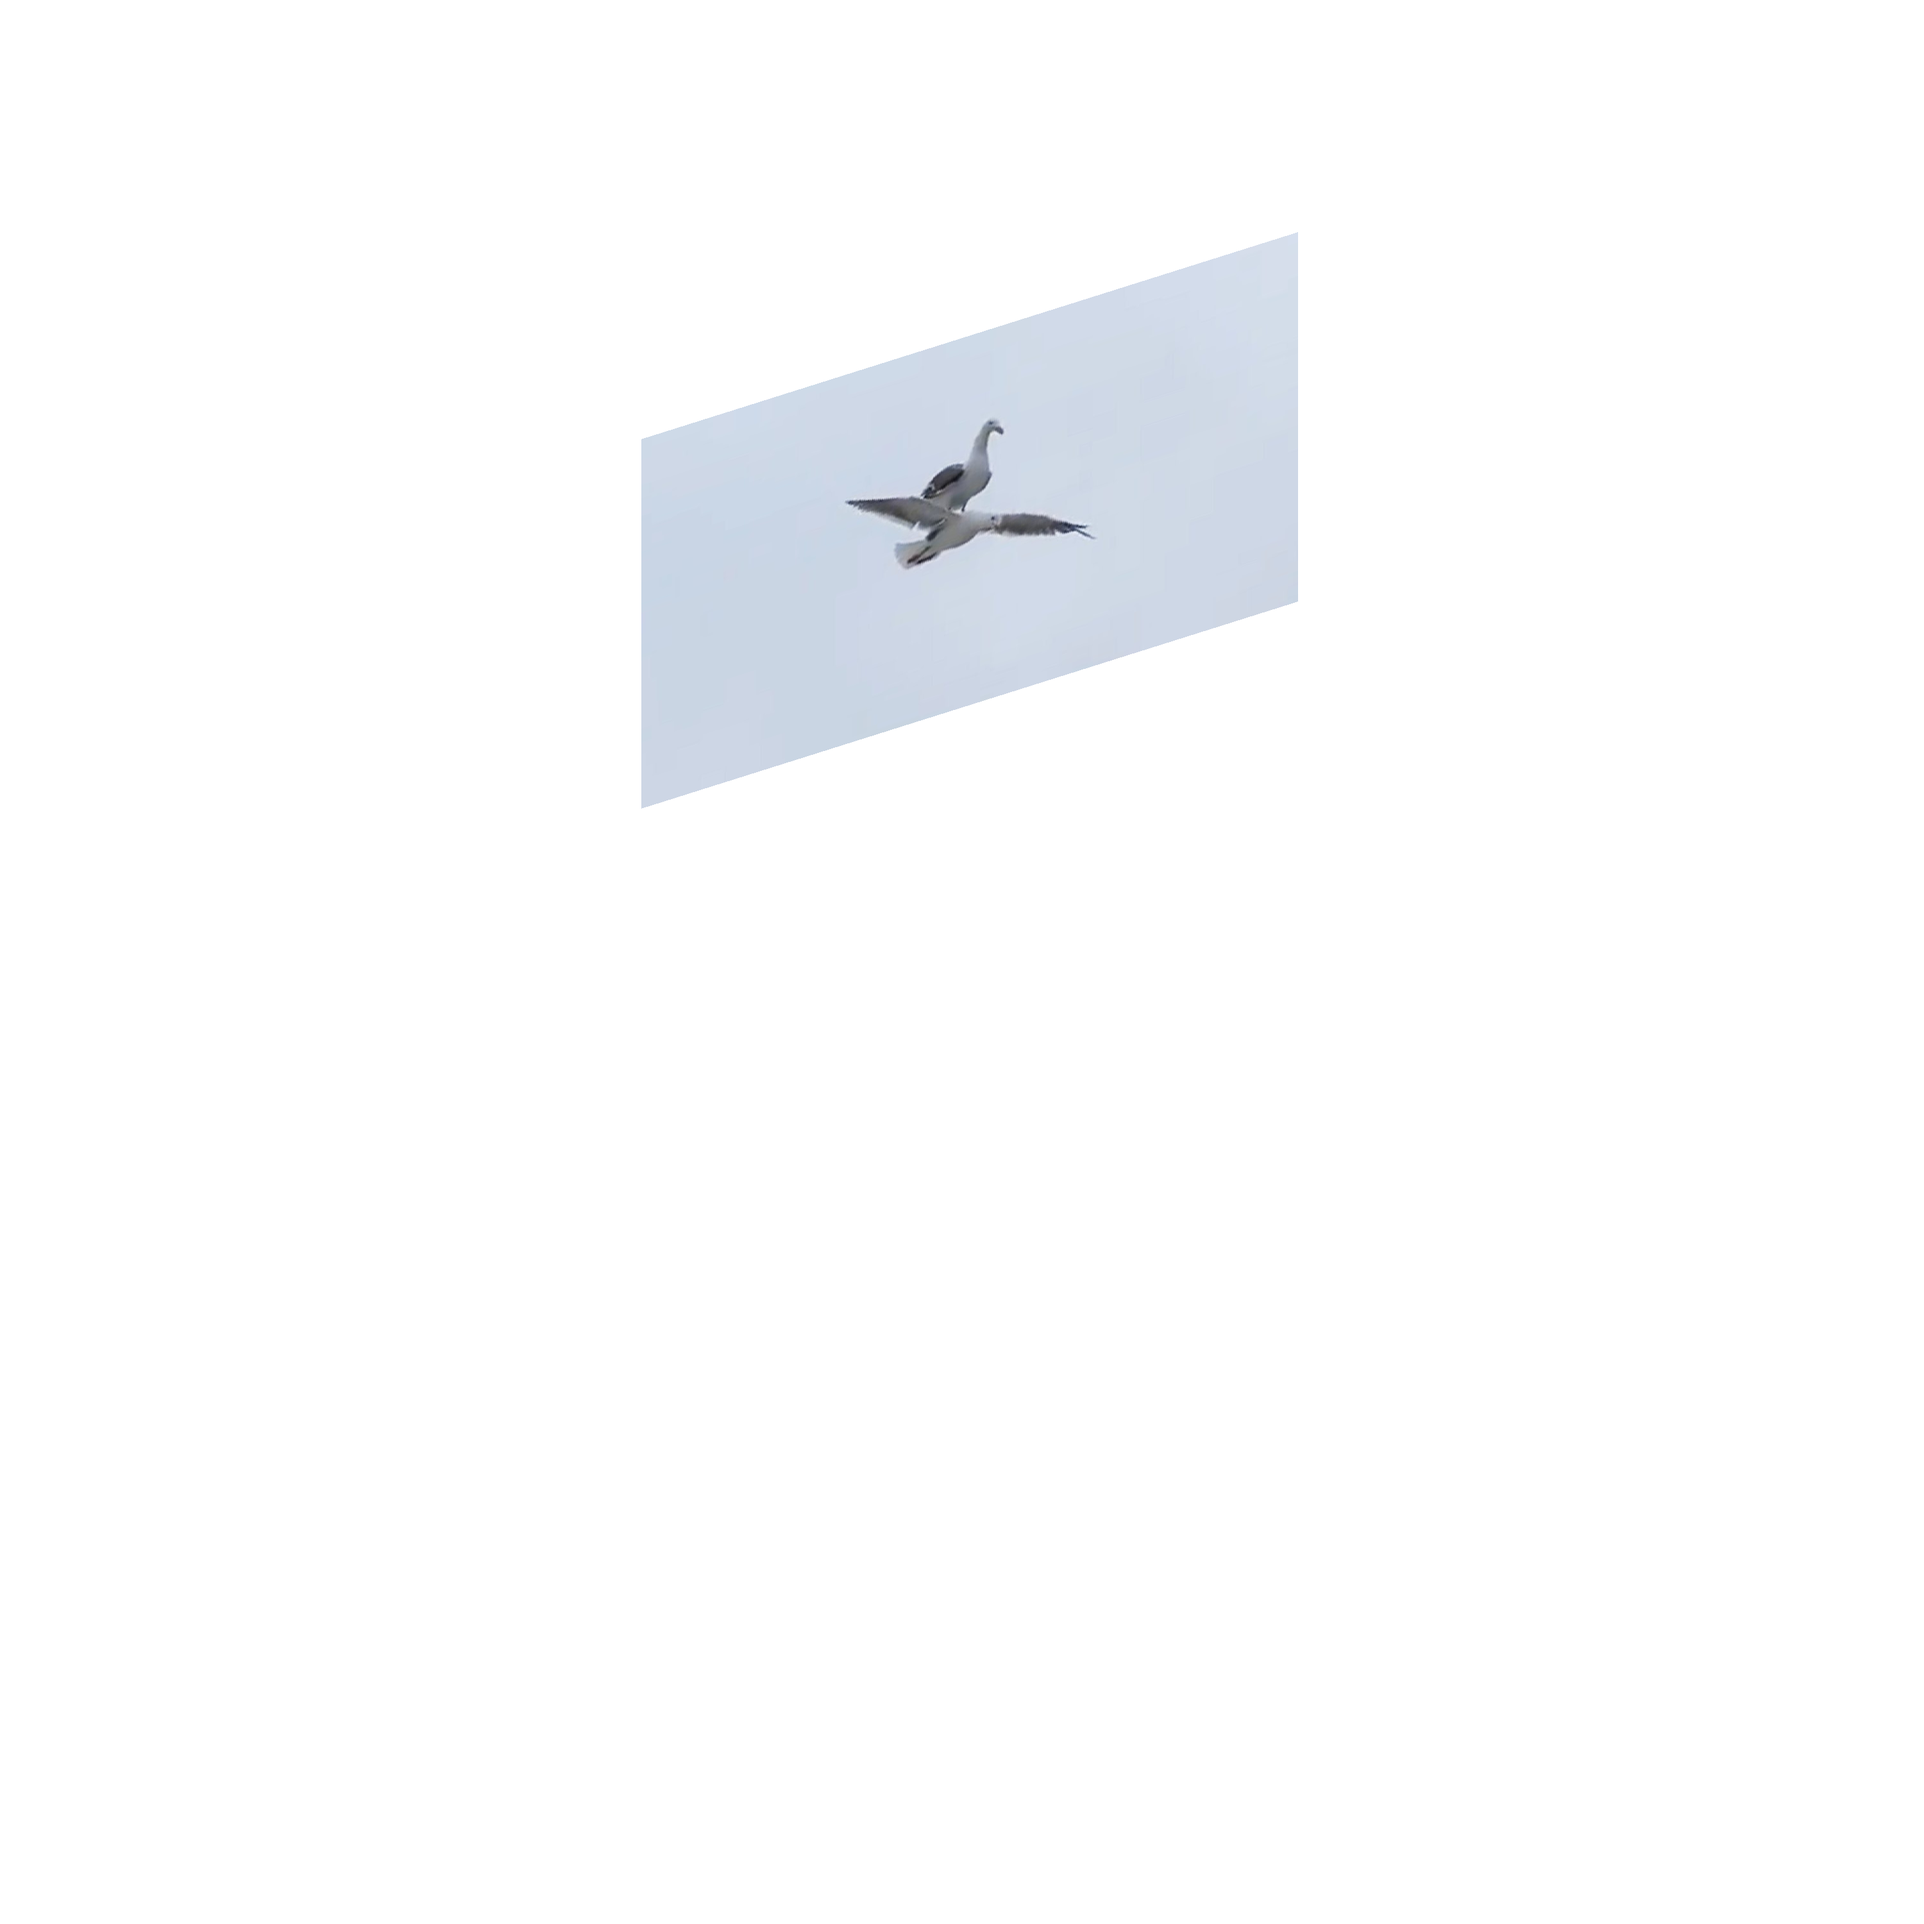
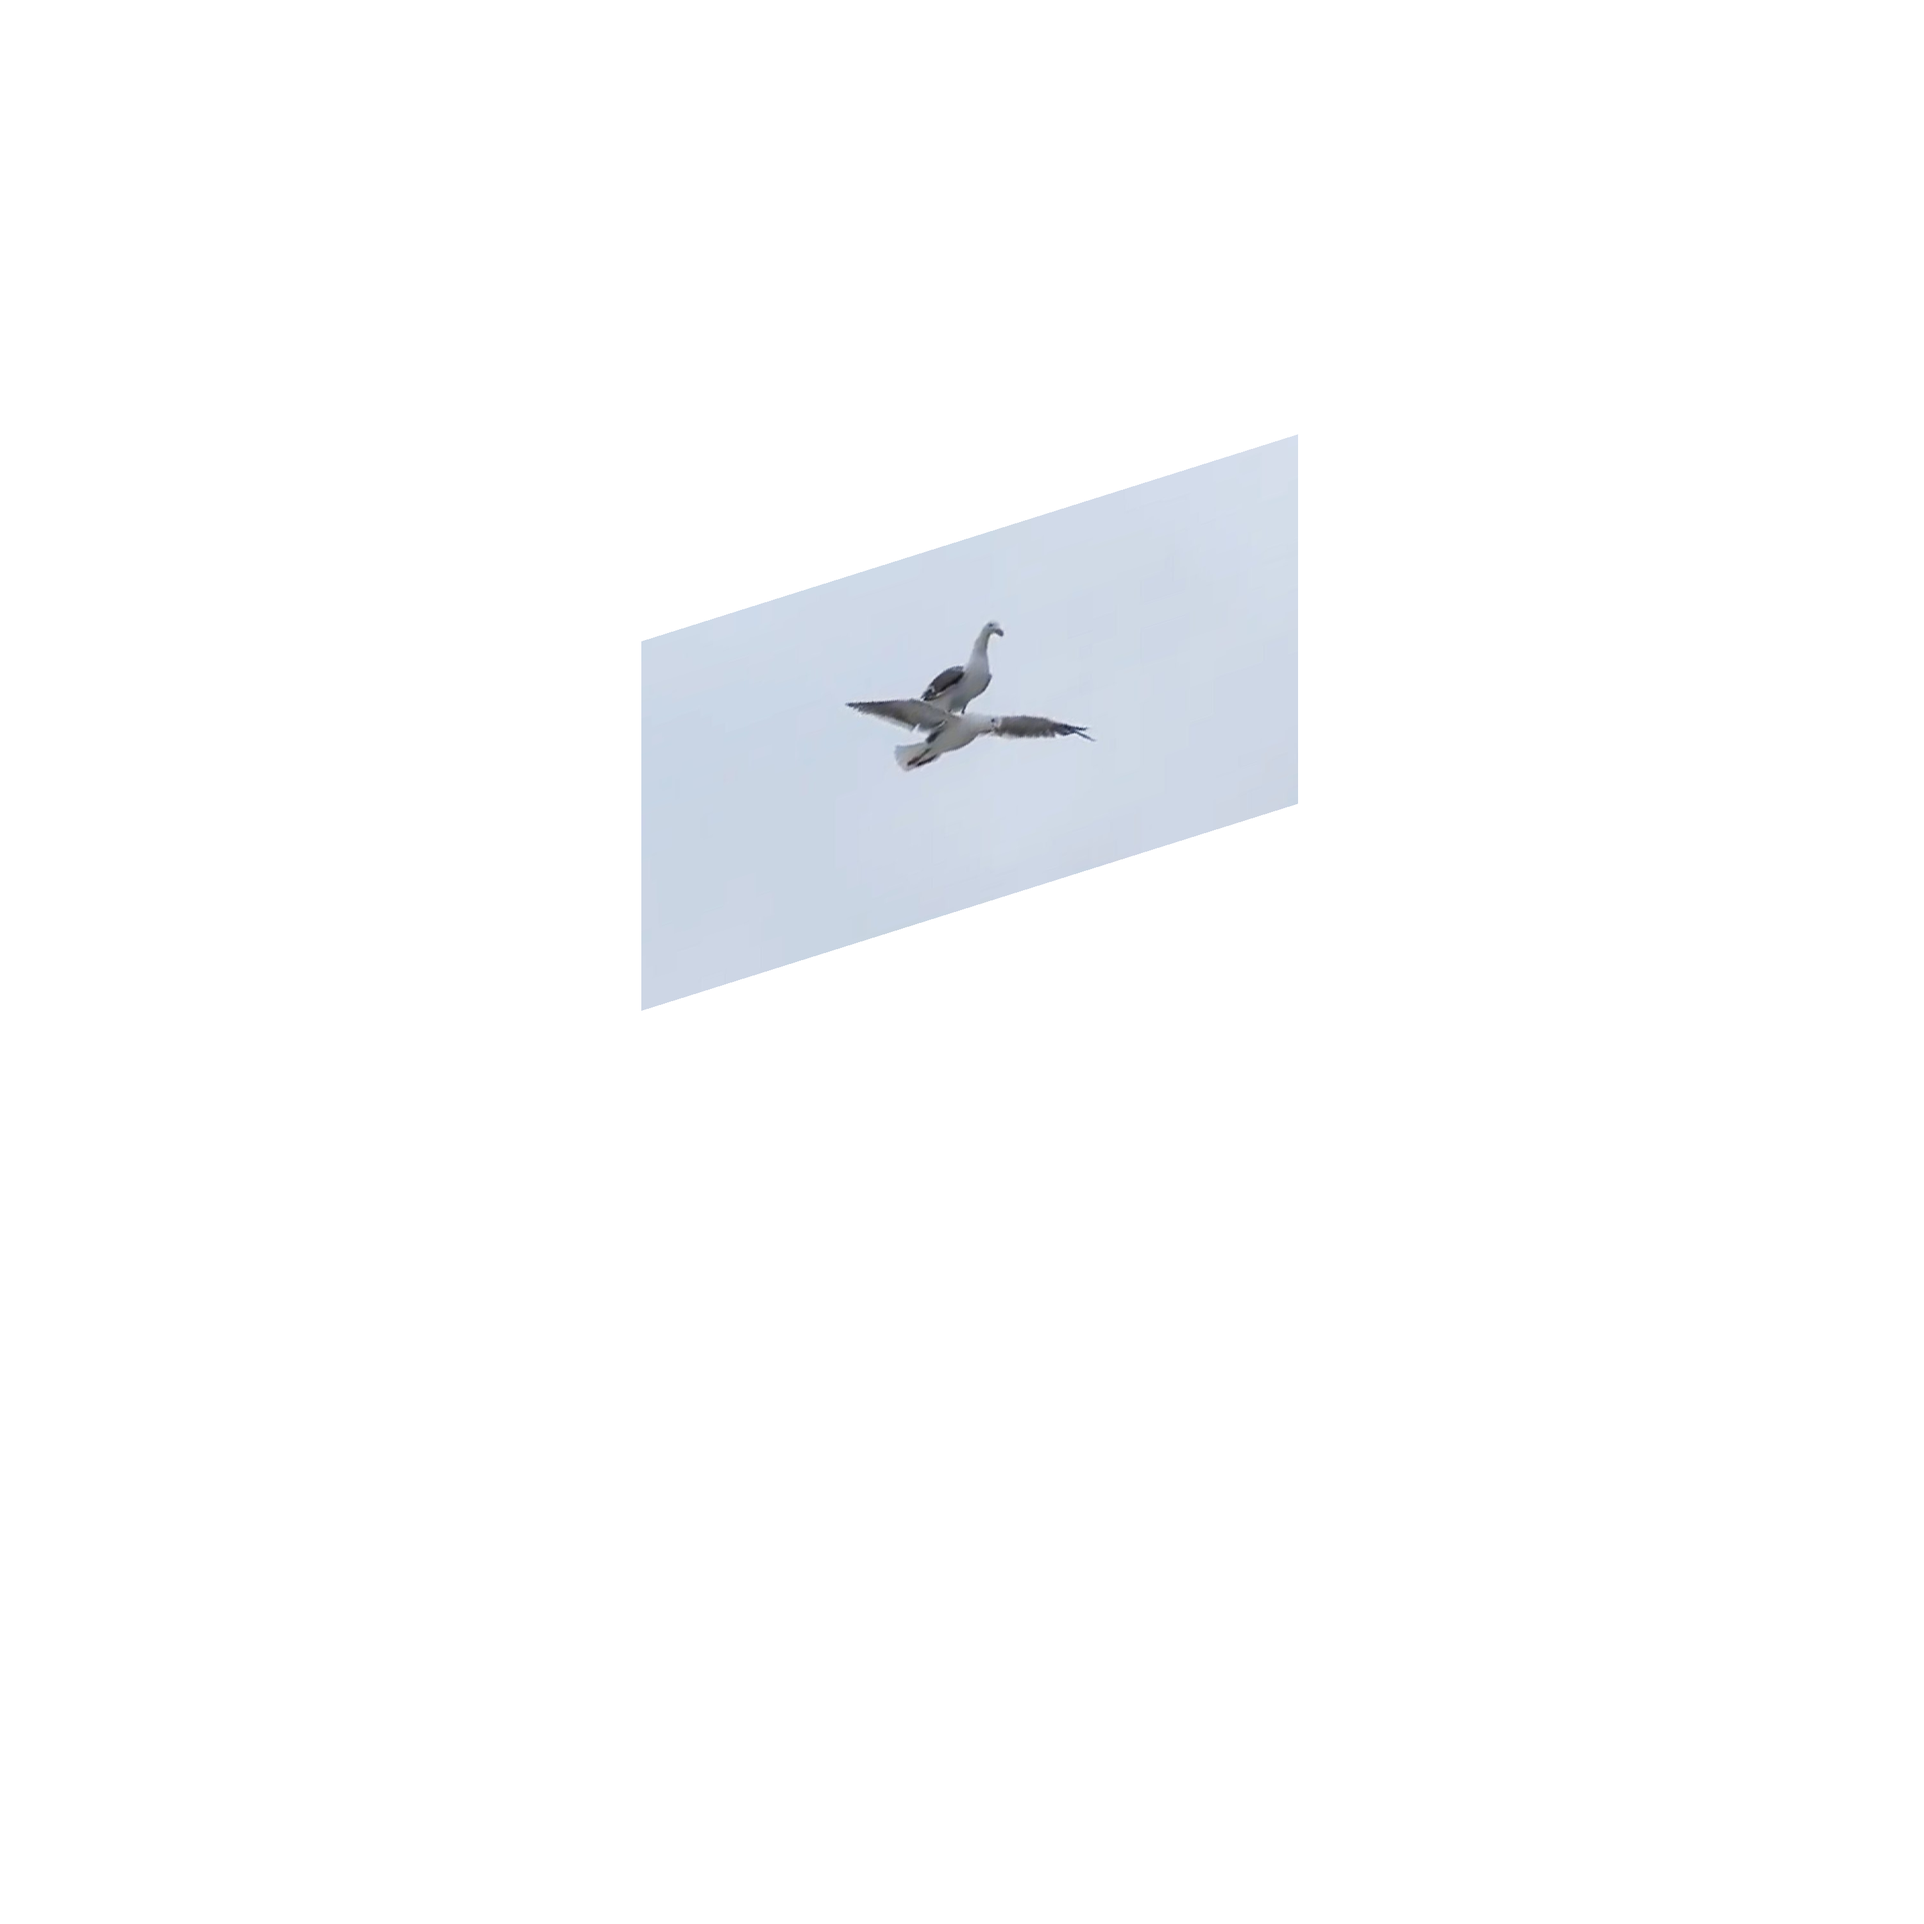
three shear working

Changed region(s): [[0.31, 0.31, 0.682, 0.527], [0.31, 0.124, 0.682, 0.341]]

diff --git a/threeshear.py b/threeshear.py
@@ -2,7 +2,7 @@ import numpy as np
 from PIL import Image, ImageDraw
 import sys
 import math, time
-from transforms import move, shear1, shear2, shear3
+from transforms import move, shear1, shear2, shear3, rotation
 
 sttime = time.perf_counter()
 vec_round = np.vectorize(round)
@@ -51,17 +51,22 @@ def matrix_to_img_slow(npdata):
 #data = vec_round(move(1000, 1000).dot(img_to_matrix(numpydata)))
 data = img_to_matrix(numpydata)
 
-raw = vec_round(move(1000, 1000).dot(data))
+#raw = vec_round(move(1000, 1000).dot(data))
+raw = data
 result1 = vec_round(shear1(theta).dot(raw))
 result2 = vec_round(shear2(theta).dot(result1))
 result3 = vec_round(shear3(theta).dot(result2))
 
-img0 = Image.fromarray()
-img1 = Image.fromarray(matrix_to_img(result1).astype('uint8'), 'RGB')
-img2 = Image.fromarray(matrix_to_img(result2).astype('uint8'), 'RGB')
-imgfinal = Image.fromarray(matrix_to_img(result3).astype('uint8'), 'RGB')
+img0 = Image.fromarray(matrix_to_img(vec_round(move(1000, 1000).dot(raw))).astype('uint8'), 'RGB')
+img1 = Image.fromarray(matrix_to_img(vec_round(move(1000, 1000).dot(result1))).astype('uint8'), 'RGB')
+img2 = Image.fromarray(matrix_to_img(vec_round(move(1000, 1000).dot(result2))).astype('uint8'), 'RGB')
+imgfinal = Image.fromarray(matrix_to_img(vec_round(move(1000, 1000).dot(result3))).astype('uint8'), 'RGB')
 
+img0.save('original.png')
 img1.save('shear1.png') # Save image
 img2.save('shear2.png')
 imgfinal.save('shear3.png')
+
+singletrans = matrix_to_img(vec_round(move(1000, 1000).dot(rotation(theta)).dot(raw)))
+Image.fromarray(singletrans.astype('uint8'), 'RGB').save('rotationmatrix.png')
 print(time.perf_counter()-sttime)

diff --git a/transforms.py b/transforms.py
@@ -20,8 +20,8 @@ reflect1 = partition(np.array([[1, 2, 0],
                                [0, 1, 0],
                                [0, 0, 1]]))
 
-rotation = lambda theta: partition(np.array([[ np.cos(theta), np.sin(theta), 0], 
-                                             [-np.sin(theta), np.cos(theta), 0],
+rotation = lambda theta: partition(np.array([[ np.cos(theta),-np.sin(theta), 0], 
+                                             [ np.sin(theta), np.cos(theta), 0],
                                              [             0,             0, 1]]))
 
 shearexample = partition(np.array([[1, 2, 0],
